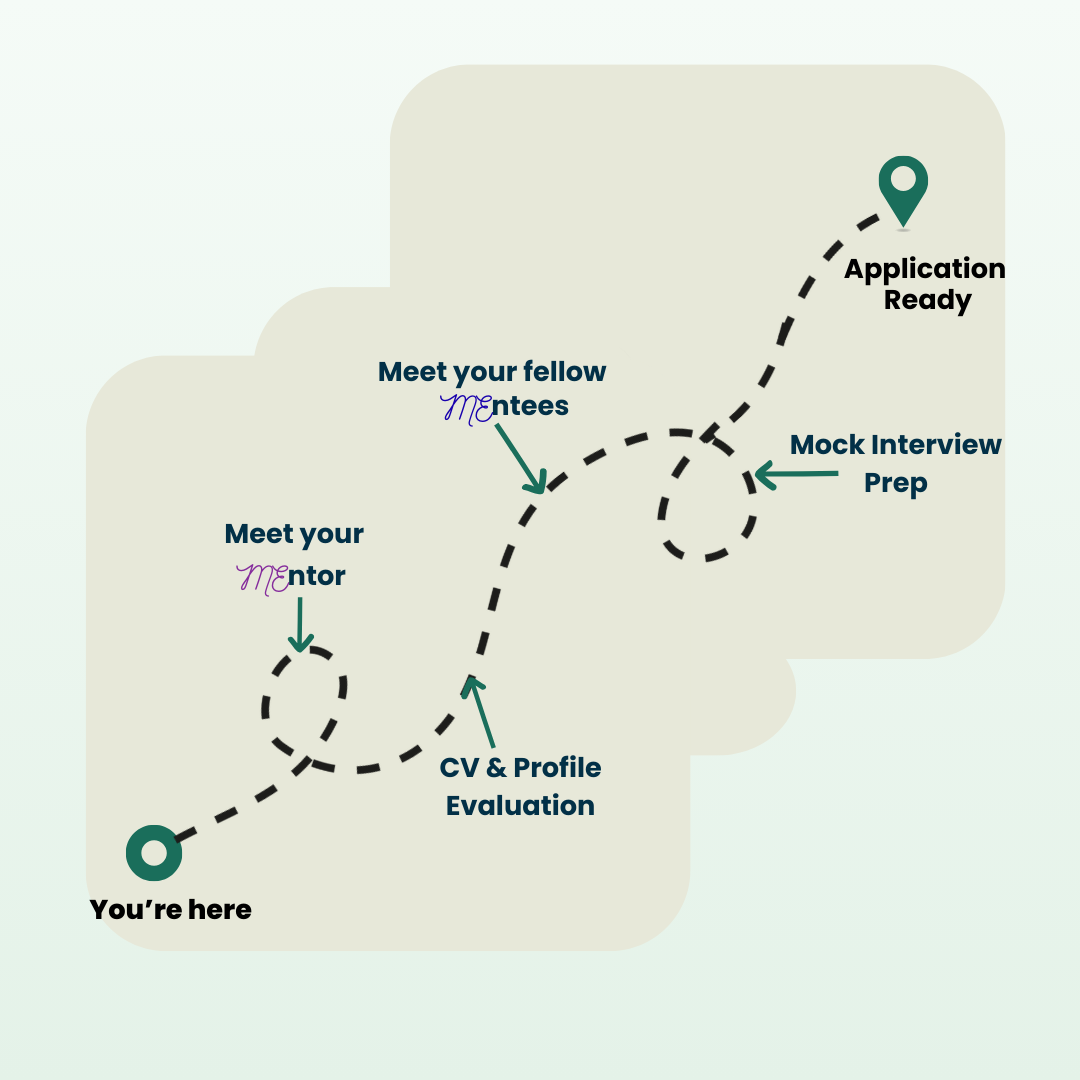
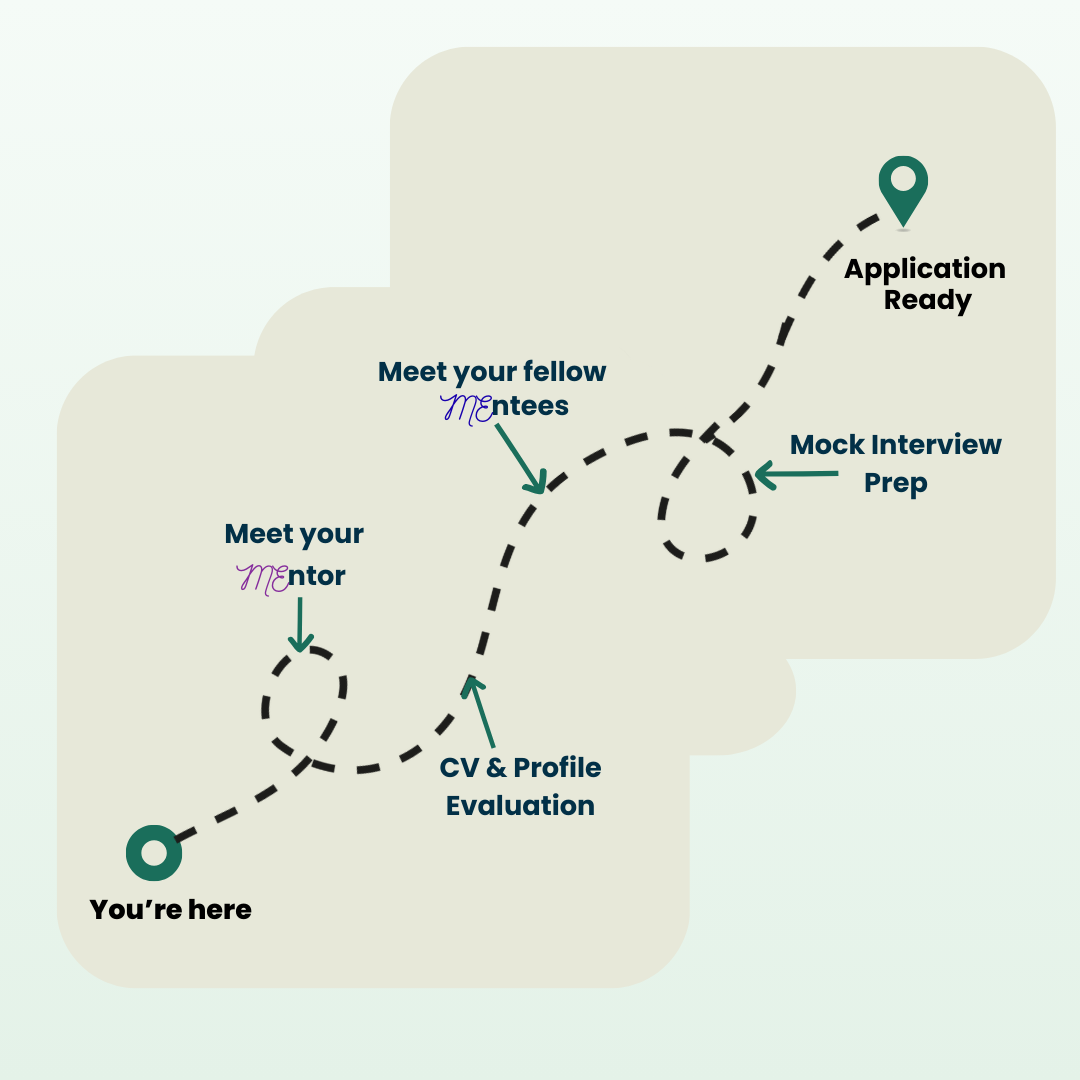
F: made everything so nice you're welcome

Changed region(s): [[0.3972, 0.0306, 0.9778, 0.3972], [0.0611, 0.3056, 0.1222, 0.3972], [0.3667, 0.0611, 0.3972, 0.0917]]

diff --git a/mentorme/src/pages/Roadmap.jsx b/mentorme/src/pages/Roadmap.jsx
@@ -27,7 +27,7 @@ export default function Roadmap() {
         <h1 style={styles.hello}>Hello {firstName}</h1>
         <h2 style={styles.title}>Here is your roadmap</h2>
         <img
-          src="/roadmap3.png"
+          src="/roadmap4.png"
           alt="Roadmap"
           style={styles.roadmapImage}
         />
@@ -106,8 +106,8 @@ const styles = {
 
   roadmapImage: {
     width: "100%", 
-    maxWidth: "650px", 
-    height: "500px", 
+    maxWidth: "100%", 
+    height: "auto", 
     marginTop: 20, 
     borderRadius: 12, 
     // boxShadow: "0 4px 8px rgba(0, 0, 0, 0.1)", 
